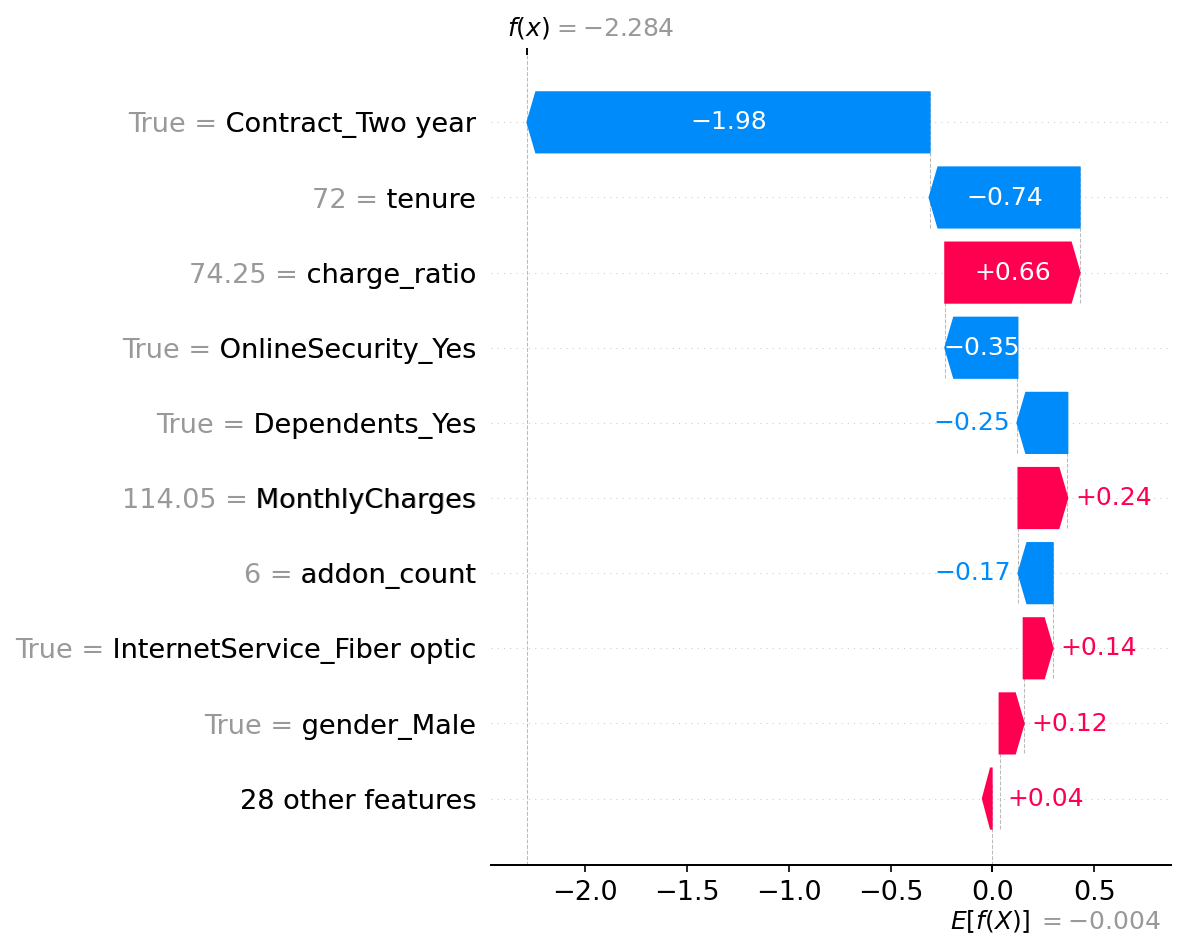
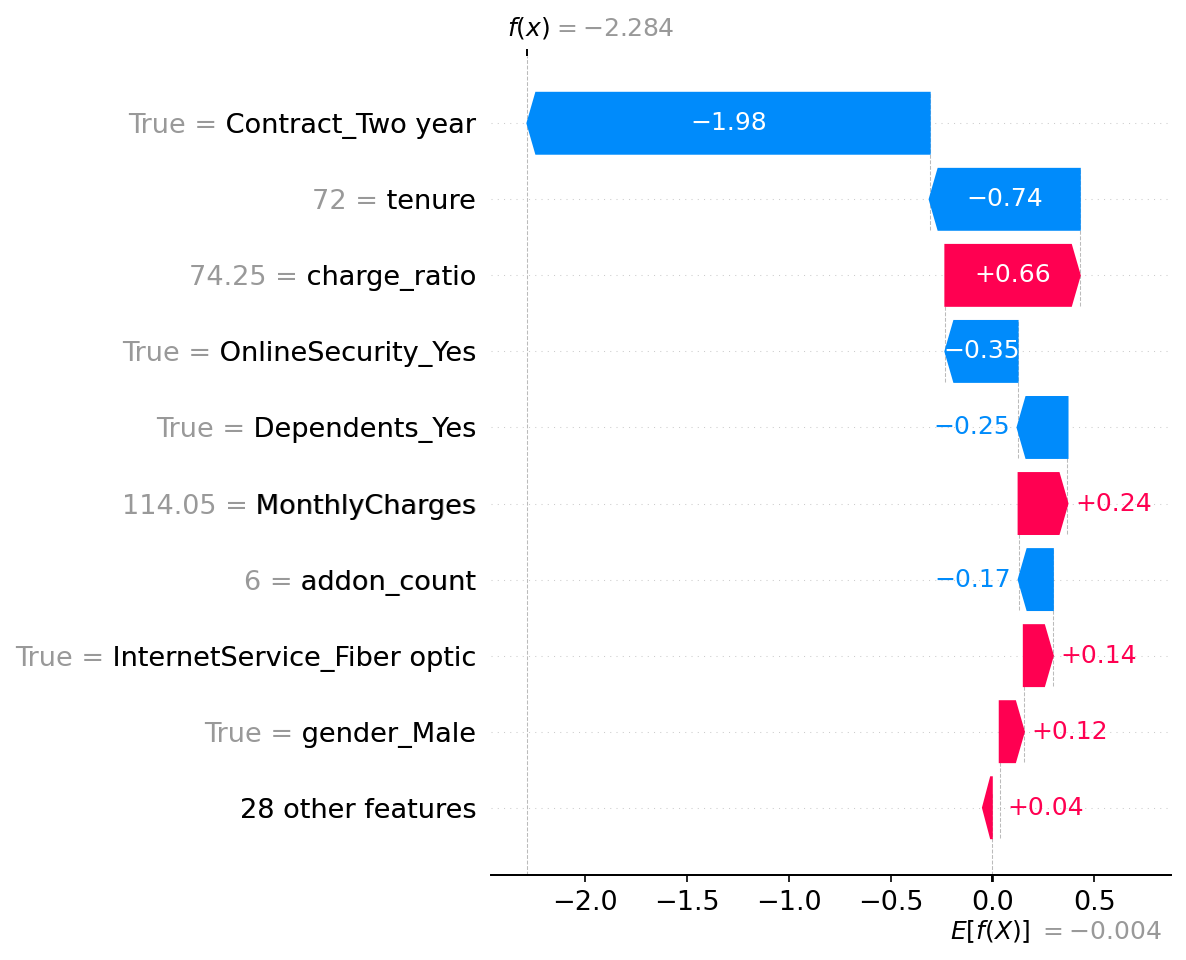
Reran the main.py, thus generating the outputs again.  Added comments for clarity.

diff --git a/src/train_model.py b/src/train_model.py
@@ -24,76 +24,95 @@ from feature_engineering import build_features
 MODEL_SPOT = Path(__file__).parent.parent / "outputs"
 MODEL_SPOT.mkdir(exist_ok=True)
 
-# the proportion of retrieved items in the top-K list that are genuinely relevant to the user
-def precision_at_k(y_true, y_score, k=0.2):
-    """Precision among the top-k% highest-scored accounts."""
-    n = int(len(y_score) * k)
-    top_idx = np.argsort(y_score)[::-1][:n]
+
+def precision_at_k(y_true, y_score, k=0.2): #precision = a performance metric that measure how many of the positive predictions made by a model were actually correct
+    """Precision among the top-k% highest-scored accounts
+
+    Simulates a real retention campaign: ranking every customer by predicted
+    churn risk, then only have budget to contact the riskiest slice...."of the top k% 
+    the model flags, what fraction actually churned?"
+    """
+    n = int(len(y_score) * k)                       # how many accounts the top-k% slice holds
+    top_idx = np.argsort(y_score)[::-1][:n]         # indices of the n highest risk scores
+    # mean of a 0/1 churn column over that slice == the precision we want
     return y_true.iloc[top_idx].mean() if hasattr(y_true, "iloc") else y_true[top_idx].mean()
 
 
 def split_data(featured: pd.DataFrame):
-    X = featured.drop(columns=["Churn"])
-    y = featured["Churn"]
+    """Separate the label from the features and carve out a held-out test set"""
+    X = featured.drop(columns=["Churn"])            # everything except the target (Churn)
+    y = featured["Churn"]                           # the 0/1 target
+    # stratify = y keeps the ~27%   churn rate identical in train and test;
+    # I am choosing random_state = 42 (consistant within this project - making the split reproducible run to run
     return train_test_split(X, y, test_size=0.2, stratify=y, random_state=42)
 
 
 def train_baseline(X_train, y_train):
+    """interpretable reference model to beat: logistic regression"""
+    # Logistic regression is scale-sensitive, so standardize first. The scaler is fit on TRAIN ONLY and returned so the same transform can be reused on test
     scaler = StandardScaler()
     X_train_scaled = scaler.fit_transform(X_train)
-    model = LogisticRegression(max_iter=1000, class_weight="balanced")
+    model = LogisticRegression(max_iter=1000, class_weight="balanced")  # class_weight="balanced" up-weights the minority (churn) class so the model doesn't just learn to predict "no churn" for everyone
     model.fit(X_train_scaled, y_train)
     return model, scaler
 
 
 def train_xgb(X_train, y_train):
-    # scale_pos_weight handles the class imbalance (~27% churn rate)
+    """Stronger gradient-boosted trees model"""
+    # scale_pos_weight handles the class imbalance (~27% churn rate): ratio of negatives to positives tells XGBoost how much to weight churners
     neg, pos = (y_train == 0).sum(), (y_train == 1).sum()
     model = xgb.XGBClassifier(
-        n_estimators=300,
-        max_depth=4,
-        learning_rate=0.05,
+        n_estimators=300,          # number of boosting rounds (trees)
+        max_depth=4,               # shallow trees -> less overfitting
+        learning_rate=0.05,        # small steps; pairs with the higher n_estimators
         scale_pos_weight=neg / pos,
         eval_metric="logloss",
         random_state=42,
     )
+    # Trees don't need scaling, so raw X_train goes straight in.
     model.fit(X_train, y_train)
     return model
 
 
 def evaluate(name, y_test, y_score):
+    """Print the three metrics we care about and return them as a row dict"""
+    # ROC-AUC: ranking quality across all thresholds (1.0 perfect, 0.5 coin flip).
     auc = roc_auc_score(y_test, y_score)
+    # Precision in the top 20% riskiest -- the campaign-relevant number.
     p_at_20 = precision_at_k(y_test, y_score, k=0.2)
     print(f"\n--- {name} ---")
     print(f"ROC-AUC: {auc:.3f}")
     print(f"Precision @ top 20% riskiest: {p_at_20:.3f} "
-          f"(vs. base rate {y_test.mean():.3f})")
+          f"(vs. base rate {y_test.mean():.3f})")     # base rate = churn rate if you picked at random
+    # classification_report: precision/recall/F1 at a fixed 0.5 probability cutoff.
     print(classification_report(y_test, (y_score > 0.5).astype(int)))
     return {"model": name, "roc_auc": auc, "precision_at_20": p_at_20}
 
 
 def main():
-    df = load_clean()
-    featured = build_features(df)
+    # --- 1. Data -> features ---
+    df = load_clean()                               # raw CSV, cleaned (see data_loader.py)
+    featured = build_features(df)                   # + derived features + one-hot encoding
     X_train, X_test, y_train, y_test = split_data(featured)
 
-    results = []
+    results = []                                    # one metrics row per model
 
-    #baseline
+    # --- 2. Baseline: logistic regression ---
     lr_model, scaler = train_baseline(X_train, y_train)
+    # reuse the train-fitted scaler on test; [:, 1] = probability of churn (class 1)
     lr_score = lr_model.predict_proba(scaler.transform(X_test))[:, 1]
     results.append(evaluate("Logistic Regression", y_test, lr_score))
 
-    #stronger model
+    # --- 3. Stronger model: XGBoost ---
     xgb_model = train_xgb(X_train, y_train)
     xgb_score = xgb_model.predict_proba(X_test)[:, 1]
     results.append(evaluate("XGBoost", y_test, xgb_score))
 
-    #persist everything explain_shap.py and main.py need
-    joblib.dump(xgb_model, MODEL_SPOT / "xgb_model.joblib")
-    X_test.to_csv(MODEL_SPOT / "X_test.csv", index=False)
-    y_test.to_csv(MODEL_SPOT / "y_test.csv", index=False)
-    X_train.to_csv(MODEL_SPOT / "X_train.csv", index=False)
+    # --- 4. Persist everything explain_shap.py and main.py need ---
+    joblib.dump(xgb_model, MODEL_SPOT / "xgb_model.joblib")   # the trained model
+    X_test.to_csv(MODEL_SPOT / "X_test.csv", index=False)     # held-out features for SHAP / eval
+    y_test.to_csv(MODEL_SPOT / "y_test.csv", index=False)     # held-out labels
+    X_train.to_csv(MODEL_SPOT / "X_train.csv", index=False)   # SHAP background/reference set
 
     pd.DataFrame(results).to_csv(MODEL_SPOT / "model_comparison.csv", index=False)
     print(f"\nSaved model + eval artifacts to {MODEL_SPOT}/")

diff --git a/src/eda.py b/src/eda.py
@@ -11,8 +11,9 @@ from data_loader import load_clean
 OUTPUT_SPOT = Path(__file__).parent.parent / "outputs"
 OUTPUT_SPOT.mkdir(exist_ok=True)
 
-def churn_rate_by(df, column, ax=None):
-    """ bar chart of churn rate grouped by a categorical column """
+def churn_rate_by(df, column, ax=None): 
+    # draws a column's churn rate bar chart into its assigned subplot
+    #this function is called in run_eda
     rates = df.groupby(column)["Churn"].mean().sort_values(ascending=False)
     ax = rates.plot(kind='bar', ax=ax, color='#4C72B0')
     ax.set_ylabel("Churn Rate")
@@ -24,9 +25,9 @@ def run_eda(df):
     #the categorical driver for the dataset
     segments = ["Contract", "PaymentMethod", "InternetService", "TechSupport"]
 
-    fig, axes = plt.subplots(2, 2, figsize=(12,9))
-    for ax, col in zip(axes.flat, segments):
-        churn_rate_by(df, col, ax=ax)
+    fig, axes = plt.subplots(2, 2, figsize=(12,9))  #building a 2x2 grid of subplots
+    for ax, col in zip(axes.flat, segments):    #pairs each of the 4 subplot axes with one of the segments
+        churn_rate_by(df, col, ax=ax)   #for each subplot (segments)
         ax.tick_params(axis="x", rotation=30)
     fig.tight_layout()
     fig.savefig(OUTPUT_SPOT / "churn_by_segment.png", dpi=150)

diff --git a/outputs/recommendations.md b/outputs/recommendations.md
@@ -3,37 +3,37 @@
 Based on EDA (`churn_by_segment.png`, `tenure_by_churn.png`) and the XGBoost SHAP explanation (`shap_global_importance.png`, `shap_beeswarm.png`) from the trained pipeline (`outputs/model_comparison.csv`).
 
 ## Finding 1
-- **What the data shows:** Contract type is the single strongest churn driver. Month-to-month customers churn at 42.7%, vs. 11.3% for one-year and just 2.8% for two-year contracts — roughly **15x** the churn rate of two-year customers.
+- **What the data shows:** Contract type is the single strongest churn driver. Month-to-month customers churn at 42.7%, vs. 11.3% for one-year and just 2.8% for two-year contracts, which is roughly **15x** the churn rate of two-year customers.
 - **Supporting evidence:** `Contract_Two year` and `Contract_One year` are the #1 and #3 ranked features by mean |SHAP value| in the XGBoost model, ahead of every other feature except the engineered `charge_ratio`.
-- **Recommendation:** Target month-to-month customers with a discounted annual-contract upgrade offer, timed around the highest-risk tenure window (see Finding 3 — the first 6 months).
-- **Estimated impact:** 3,875 of 7,043 customers (55%) are month-to-month,averaging $66.40/month. Even a modest 10% conversion to annual contracts (based on the one-year cohort's 11.3% churn rate) would be expected to retain roughly 390 customers who would otherwise likely churn — worth further validation with an actual CLV figure before sizing a campaign budget.
+- **Recommendation:** Target month-to-month customers with a discounted annual-contract upgrade offer, timed around the highest-risk tenure window.
+- **Estimated impact:** 3,875 of 7,043 customers (55%) are month-to-month,averaging $66.40/month. Even a modest 10% conversion to annual contracts (based on the one-year cohort's 11.3% churn rate) would be expected to retain roughly 390 customers who would otherwise likely churn - worth further validation with an actual CLV figure before sizing a campaign budget.
 
 ## Finding 2
 - **What the data shows:** Customers paying by electronic check churn at 45.3%, more than double every other payment method (mailed check 19.1%, bank transfer 16.7%, credit card 15.2%).
 - **Supporting evidence:** The engineered `is_electronic_check` flag ranks #7 by mean |SHAP value|, and this pattern holds even controlling for the other top drivers (contract, tenure, internet service).
-- **Recommendation:** Prompt electronic-check customers to switch to autopay (credit card or bank transfer) with a small one-time incentive (e.g., a $10 bill credit) — autopay enrollment is a low-friction ask compared to a contract change.
-- **Estimated impact:** 2,365 customers currently pay by electronic check, of whom 1,071 churned in this snapshot. Note this is likely partly a proxy, not a pure causal lever — see Limitations below.
+- **Recommendation:** Prompt electronic-check customers to switch to autopay (credit card or bank transfer) with a small one-time incentive (e.g., a $10 bill credit) - autopay enrollment is a low-friction ask compared to a contract change.
+- **Estimated impact:** 2,365 customers currently pay by electronic check, of whom 1,071 churned in this snapshot. Note this is likely partly a proxy, not a pure causal lever... *see Limitations below*.
 
 ## Finding 3
 - **What the data shows:** Churn risk is heavily concentrated in new accounts: 52.9% of customers with 0-6 months of tenure churn, dropping to 35.9% (6-12mo), 28.7% (1-2yr), 20.4% (2-4yr), and 9.5% for 4+ year customers.
-- **Supporting evidence:** `tenure` ranks #5 by mean |SHAP value|, and the engineered `charge_ratio` (total spend relative to monthly rate, which is naturally low for new accounts) ranks #2 overall — the single strongest non-contract signal in the model.
-- **Recommendation:** Build a structured 90-day onboarding/retention touch program for new signups (welcome check-in, proactive support outreach) rather than waiting for churn-risk scores to flag them later — by the time tenure-based features dominate the risk score, the customer is already in the highest-risk window.
-- **Estimated impact:** 1,481 customers (21% of the base) are in month 0-6, accounting for 784 of the dataset's ~1,869 total churned customers — disproportionately over 40% of all churn from a fifth of the customer base.
+- **Supporting evidence:** `tenure` ranks #5 by mean |SHAP value|, and the engineered `charge_ratio` (total spend relative to monthly rate, which is naturally low for new accounts) ranks #2 overall. This is the single strongest non-contract signal in the model.
+- **Recommendation:** Build a structured 90-day onboarding/retention touch program for new signups (welcome check-in, proactive support outreach) rather than waiting for churn-risk scores to flag them later... by the time tenure-based features dominate the risk score, the customer is already in the highest-risk window.
+- **Estimated impact:** 1,481 customers (21% of the base) are in month 0-6, accounting for 784 of the dataset's ~1,869 total churned customers. This is disproportionate over 40% of all churn from a fifth of the customer base.
 
 ## Finding 4
 - **What the data shows:** Fiber-optic customers without Tech Support churn at 49.4%, compared to 41.9% for fiber-optic overall and just 7.4% for customers with no internet service. Fiber optic churns roughly 2x higher than DSL (19.0%).
 - **Supporting evidence:** `InternetService_Fiber optic` ranks #4 by mean |SHAP value|; `InternetService_No` (#9) and the TechSupport segment chart in `churn_by_segment.png` (No: 41.6% vs. Yes: 15.2%) reinforce that unsupported service is a distinct risk pocket.
-- **Recommendation:** Bundle a free 2-3 month Tech Support trial into fiber plans at signup, rather than selling it as a pure add-on — this targets the highest-churn service tier with the add-on most associated with retention.
+- **Recommendation:** Bundle a free 2-3 month Tech Support trial into fiber plans at signup, rather than selling it as a pure add-on - this targets the highest-churn service tier with the add-on most associated with retention.
 - **Estimated impact:** 2,230 customers currently have fiber without tech support; closing even a third of the gap between their 49.4% churn rate and the 15.2% Tech-Support-attached rate would be a meaningful reduction concentrated in a single, easily identifiable segment.
 
 ## Targeting strategy
-- The model's precision at the top 20% riskiest-scored accounts is 0.662 (Logistic Regression) / 0.658 (XGBoost), against a 26.5% base churn rate — roughly a **2.5x lift**. Targeting the top 20% by score is a reasonable starting point: it concentrates outreach on accounts where roughly 2 in 3 are correctly flagged as actual churners, rather than spreading a campaign evenly across the whole base.
-- Whether to extend beyond the top 20% (e.g. to 30-40%) depends on intervention cost vs. customer lifetime value, which isn't in this dataset — as a rule of thumb, keep expanding the targeted percentile as long as (precision at that percentile) × (average CLV) still exceeds the per-customer cost of the retention offer.
+- The model's precision at the top 20% riskiest-scored accounts is 0.662 (Logistic Regression) / 0.658 (XGBoost), against a 26.5% base churn rate - roughly a 2.5x lift. Targeting the top 20% by score is a reasonable starting point: it concentrates outreach on accounts where roughly 2 in 3 are correctly flagged as actual churners, rather than spreading a campaign evenly across the whole base.
+- Whether to extend beyond the top 20% (e.g. to 30-40%) depends on intervention cost vs. customer lifetime value, which isn't in this dataset - as a rule of thumb, keep expanding the targeted percentile as long as (precision at that percentile) × (average CLV) still exceeds the per-customer cost of the retention offer.
 
 ## Limitations / caveats
-- This is a single-snapshot dataset with no time dimension — every finding above is a correlation, not a proven causal effect. "Month-to-month contracts cause churn" and "month-to-month customers were already going to churn and simply hadn't committed to a longer contract" are both consistent with the data.
+- This is a single-snapshot dataset with no time dimension - every finding above is a correlation, not a proven causal effect. "Month-to-month contracts cause churn" and "month-to-month customers were already going to churn and simply hadn't committed to a longer contract" are both consistent with the data.
 - `is_electronic_check` is a plausible proxy rather than a clean lever: electronic check may correlate with customers who never set up autopay in the first place (a sign of lower engagement generally), not with the payment method itself driving churn. An autopay-nudge campaign should be A/B tested before assuming it will move the underlying churn rate.
-- Similarly, "Fiber optic" churn may reflect price sensitivity or service-quality complaints specific to this provider's fiber rollout rather than something structurally true of fiber internet — this shouldn't be generalized beyond this company's dataset.
+- Similarly, "Fiber optic" churn may reflect price sensitivity or service-quality complaints specific to this provider's fiber rollout rather than something structurally true of fiber internet - this shouldn't be generalized beyond this company's dataset.
 - `TotalCharges` and the engineered `charge_ratio` are mechanically correlated with `tenure` (new customers have low total charges almost by definition), so some of their SHAP importance is likely restating the tenure effect rather than adding independent signal.
 
 ## Appendix
